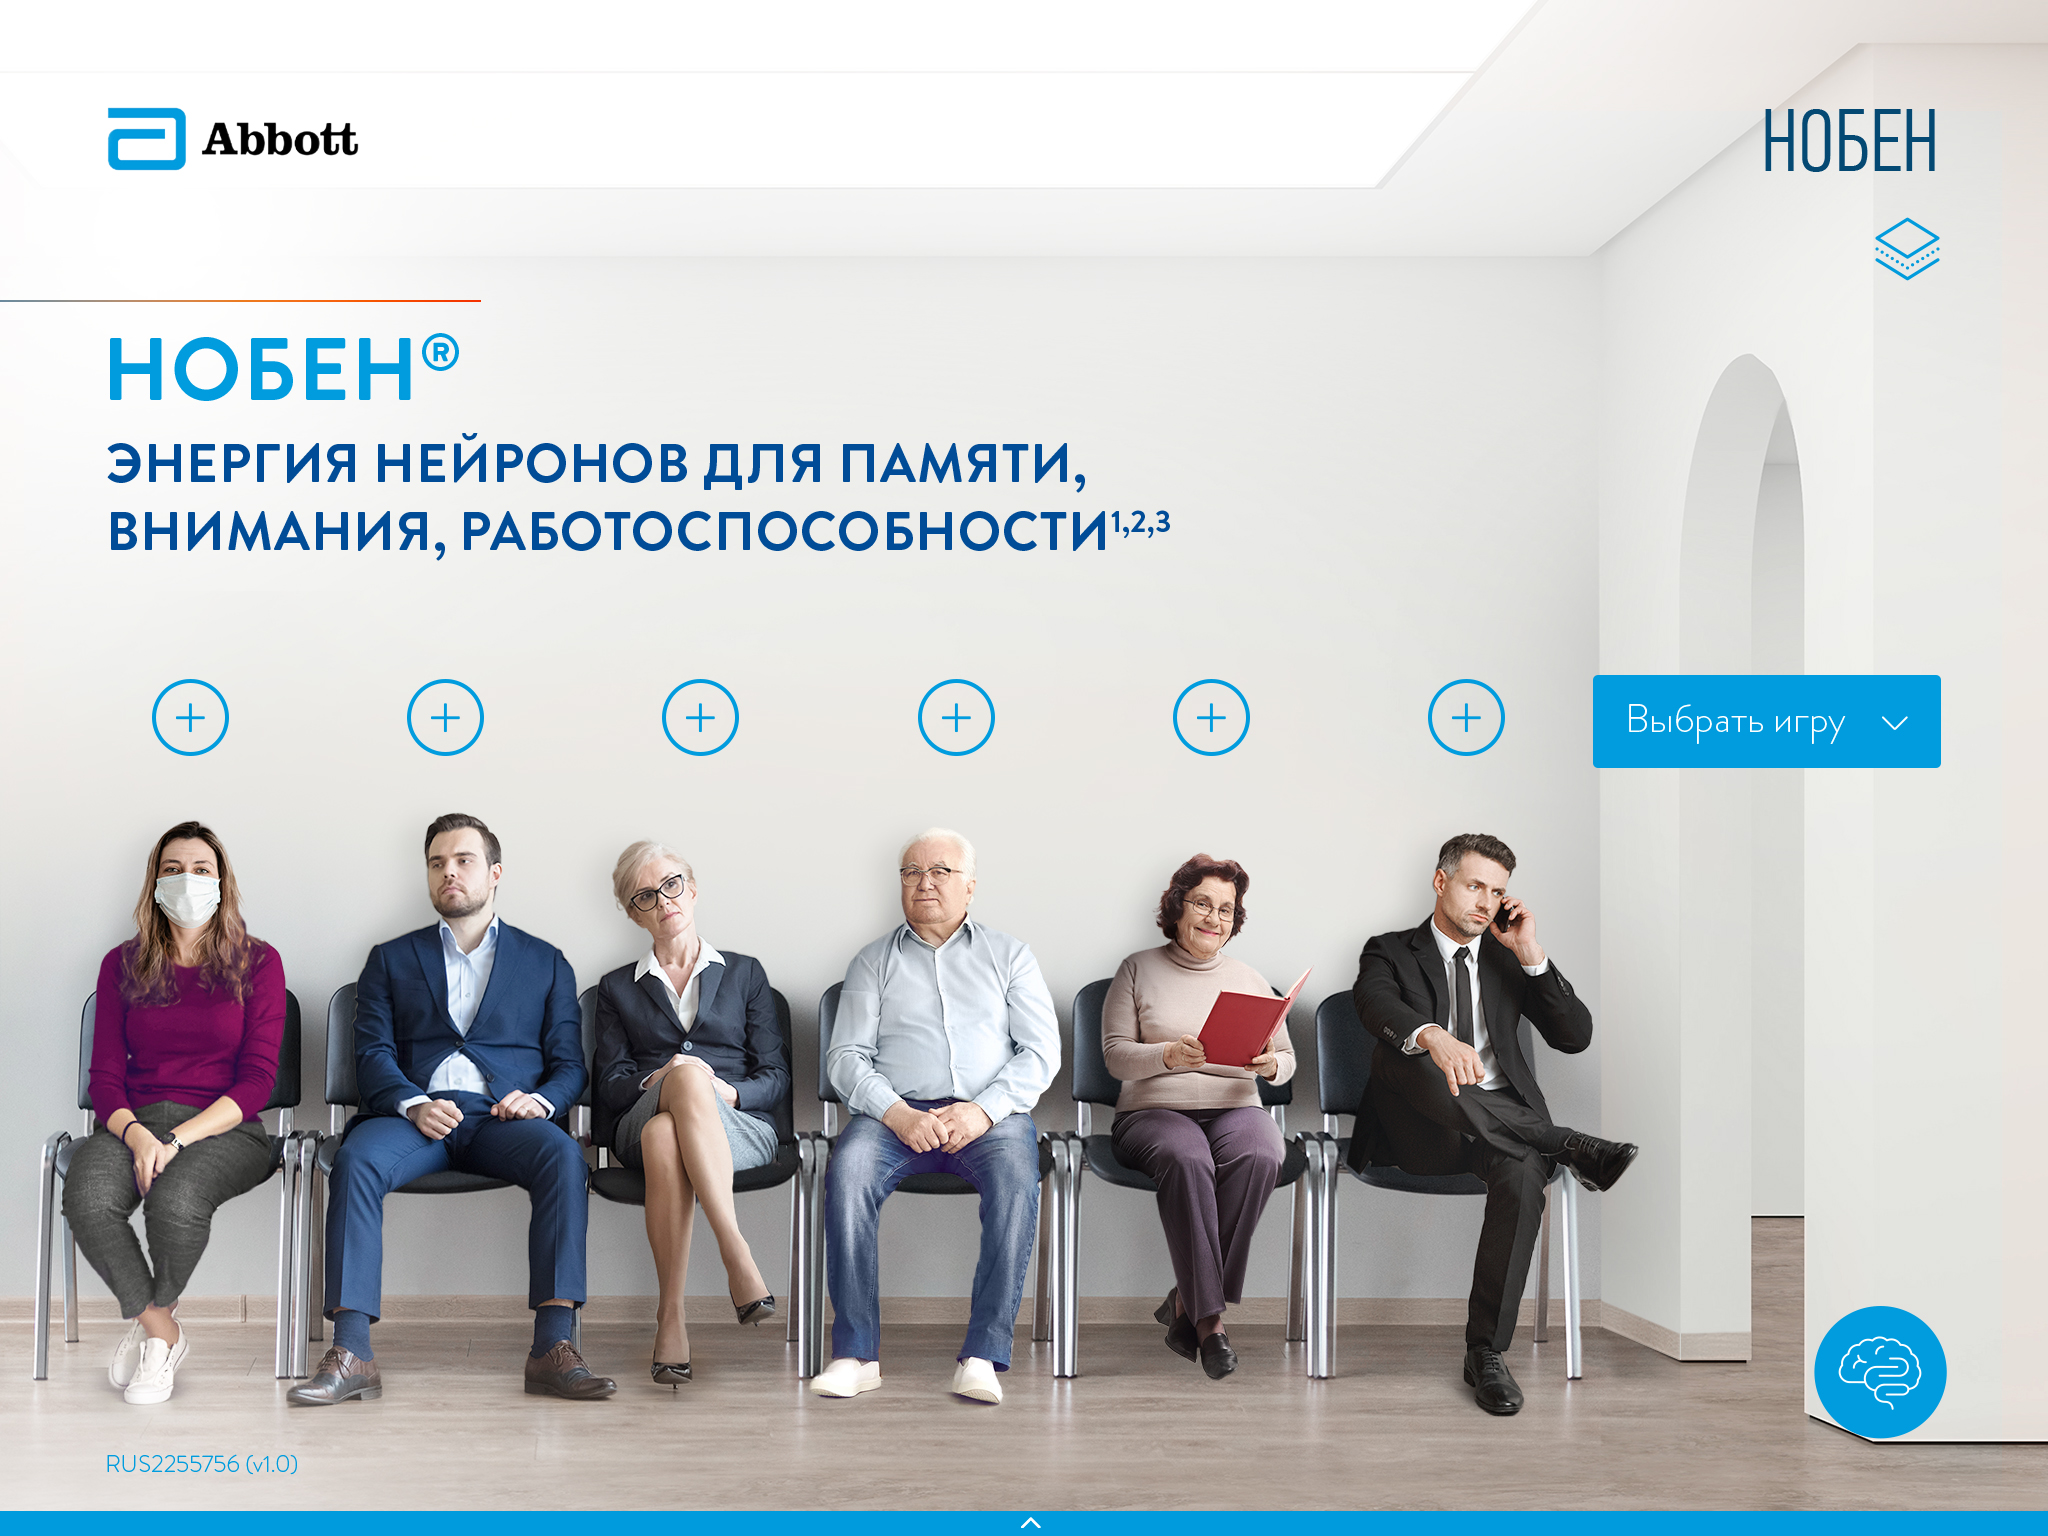
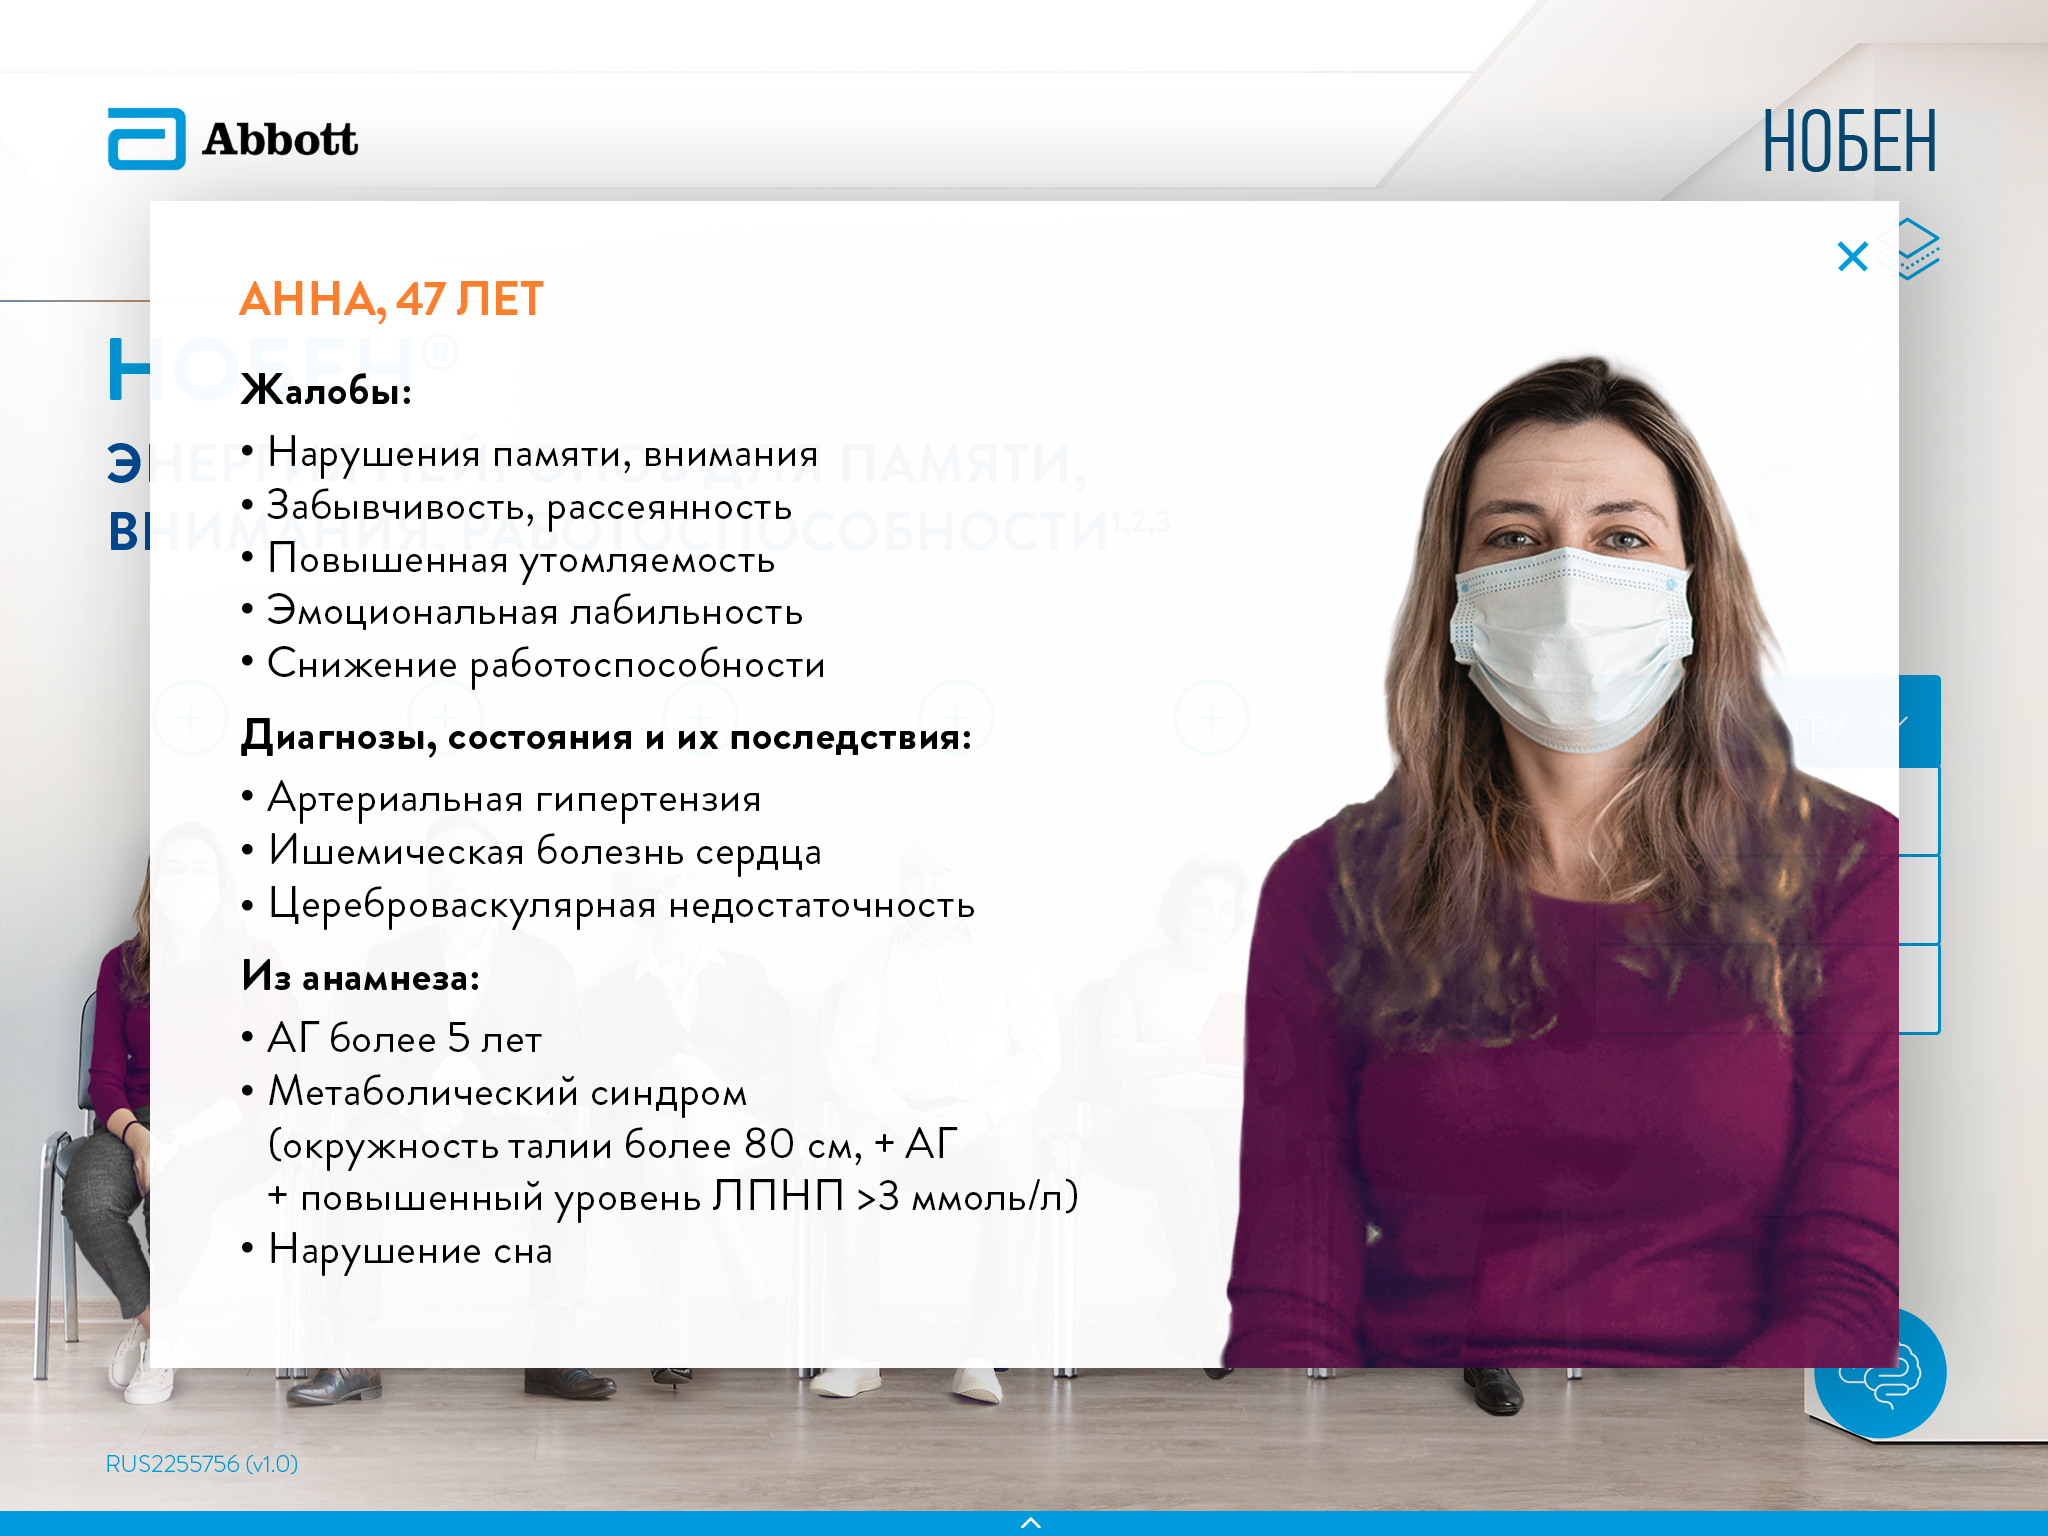
комит

diff --git a/app/home.html b/app/home.html
@@ -32,7 +32,7 @@
   <co-container class="main">
     <co-image class="bg" model="m.bg"></co-image>
     <co-container class="buttons">
-      <co-image class="plus plus1" model="m.plus"></co-image>
+      <co-image rv-open-popup="m.openPopup1" class="plus plus1" model="m.plus"></co-image>
       <co-image class="plus plus2" model="m.plus"></co-image>
       <co-image class="plus plus3" model="m.plus"></co-image>
       <co-image class="plus plus4" model="m.plus"></co-image>
@@ -44,6 +44,13 @@
   </co-container>
 
   <co-text class="hidden-references" model="m.hiddenReferences"></co-text>
+
+  <co-popup id="popup1" class="popup popup-1">
+    <co-text class="co-popup-title" model="m.popup-title"></co-text>
+    <co-container class="popupTextContainer">
+      <co-text class="title" model="m.popup-title"></co-text>
+    </co-container>
+  </co-popup>
 </article>
 
 <script src="../spa/bundle.js"></script>

diff --git a/app/styles/home.css b/app/styles/home.css
@@ -126,3 +126,36 @@ co-ab-ru-logo-menu .logoButton[co-ab-ru-logo-menu] {
     margin-top: -28px;
     margin-left: -45px;
 }
+
+
+#popup1 {
+  display: flex;
+    flex-direction: column;
+    width: 873px;
+    height: 567px;
+    transform: matrix(1, 0, 0, 1, 0, 0) !important;
+    position: absolute;
+    z-index: 11;
+    padding-top: 262px;
+    padding-left: 43px;
+    padding-right: 43px;
+    margin: auto;
+}
+
+co-popup#popup1 .close-button {
+  transform: matrix(1, 0, 0, 1, 1, 0) !important;
+}
+
+co-popup .close-button[co-popup] co-container[co-popup] {
+  position: relative;
+}
+
+co-popup#popup1 .close-button co-container {
+  width: 28px !important;
+  height: 28px !important;
+}
+
+co-popup#popup1 .close-button[co-popup] {
+  top: 13px;
+  right: 13px;
+}
